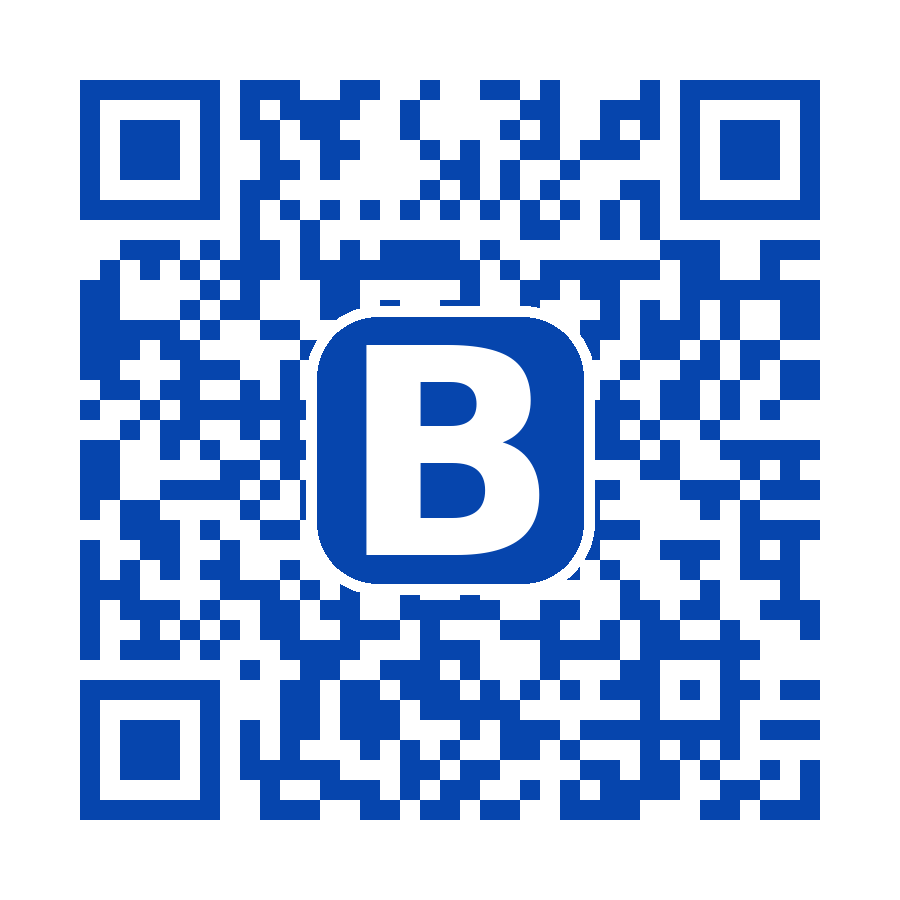
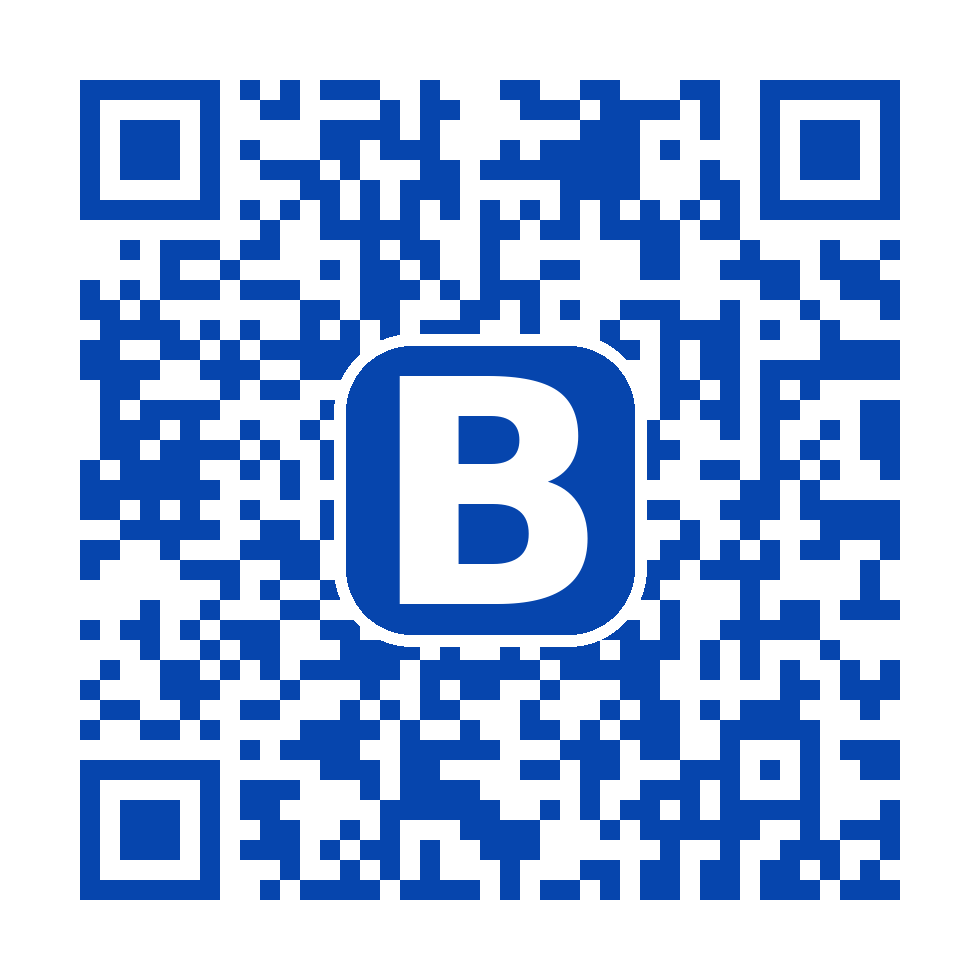
Update docs URLs to rafieakila-cloud/BunglonWIKI; Pages live

diff --git a/DEPLOY.md b/DEPLOY.md
@@ -2,7 +2,7 @@
 
 Ada 3 langkah yang **kamu sendiri** harus lakukan di GitHub — saya tidak punya akses ke akun kamu.
 
-## 1. Buat repo `BunglonWIKI` di afif72an
+## 1. Buat repo `BunglonWIKI` di rafieakila-cloud
 
 1. Buka <https://github.com/new>
 2. **Repository name:** `BunglonWIKI` (harus persis sama — ini menentukan URL)
@@ -16,29 +16,29 @@ Buka PowerShell di `C:\BacapiWiki\` lalu jalankan:
 
 ```sh
 git remote remove origin 2>$null
-git remote add origin https://github.com/afif72an/BunglonWIKI.git
+git remote add origin https://github.com/rafieakila-cloud/BunglonWIKI.git
 git push -u origin main
 ```
 
 Kalau `git push` minta login,
-ch <github.com/afif72an](https://github.com/afif72an) minta konfirmasi OAuth / Personal Access Token (PAT).
+ch <github.com/rafieakila-cloud](https://github.com/rafieakila-cloud) minta konfirmasi OAuth / Personal Access Token (PAT).
 
-Cek: buka <https://github.com/afif72an/BunglonWIKI> — harus ada semua file (index.html, style.css, data.js, …).
+Cek: buka <https://github.com/rafieakila-cloud/BunglonWIKI> — harus ada semua file (index.html, style.css, data.js, …).
 
 ## 3. Aktifkan GitHub Pages
 
-1. Buka <https://github.com/afif72an/BunglonWIKI/settings/pages>
+1. Buka <https://github.com/rafieakila-cloud/BunglonWIKI/settings/pages>
    (pastikan kamu **login** dulu)
 2. Pada **Build and deployment**:
    - **Source:** `Deploy from a branch`
    - **Branch:** `main` → `/ (root)` → **Save**
 3. Tunggu ~1 menit
-4. Buka <https://afif72an.github.io/BunglonWIKI/>
+4. Buka <https://rafieakila-cloud.github.io/BunglonWIKI/>
 5. Status harus **200 OK**, bukan 404
 
 ## Kalau 404 masih muncul
 
-1. Cek Pages benar-benar aktif: Settings → Pages → harus ada **Your site is live at https://afif72an.github.io/BunglonWIKI/**
+1. Cek Pages benar-benar aktif: Settings → Pages → harus ada **Your site is live at https://rafieakila-cloud.github.io/BunglonWIKI/**
 2. Cek file `index.html` ada di **root** repo
 3. Cek **Visibility: Public** (pages tidak jalan di repo private)
 4. Coba hard refresh (Ctrl+Shift+R)
@@ -49,7 +49,7 @@ Cek: buka <https://github.com/afif72an/BunglonWIKI> — harus ada semua file (in
 
 - `remote origin already exists` → kamu sudah menambahkan `origin` sebelum — itu OK, perintah `git remote remove origin 2>$null` menghapus dulu.
 - `Permission denied (publickey)` → butuh SSH key atau HTTPS PAT. Pakai HTTPS clone URL atau setup SSH key ([docs](https://docs.github.com/en/authentication/connecting-to-github-with-ssh)).
-- `repository not found` → repo belum dibuat atau username salah. Cek di github.com/afif72an — username harus benar.
+- `repository not found` → repo belum dibuat atau username salah. Cek di github.com/rafieakila-cloud — username harus benar.
 
 ## Local preview (tanpa deploy)
 
@@ -61,6 +61,6 @@ Buka <http://localhost:8000/> — langsung jalan, offline.
 
 ## Cek halaman
 
-- URL final: `https://afif72an.github.io/BunglonWIKI/`
+- URL final: `https://rafieakila-cloud.github.io/BunglonWIKI/`
 - QR code: `C:\BacapiWiki\qr.png` (bisa langsung di-scan pakai HP setelah Pages live)
 - Buka di Chrome HP → tap Install → aplikasi muncul di home screen

diff --git a/README.md b/README.md
@@ -14,16 +14,16 @@ Dokumentasi resmi proyek **Bacapi Linux** — sebagai PWA (Progressive Web App),
 ## Deploy ke GitHub Pages
 
 ```sh
-git remote add origin git@github.com:afif72an/BunglonWIKI.git
+git remote add origin git@github.com:rafieakila-cloud/BunglonWIKI.git
 git push -u origin main
 ```
 
-Lalu buka **https://github.com/afif72an/BunglonWIKI/settings/pages** → pilih **main / root** → Save.
-Situs akan live di **https://afif72an.github.io/BunglonWIKI/** dalam ~1 menit.
+Lalu buka **https://github.com/rafieakila-cloud/BunglonWIKI/settings/pages** → pilih **main / root** → Save.
+Situs akan live di **https://rafieakila-cloud.github.io/BunglonWIKI/** dalam ~1 menit.
 
 ### Scan QR untuk install di HP
 
-QR di `qr.png` menunjuk ke **https://afif72an.github.io/BunglonWIKI/**. Setelah situs aktif:
+QR di `qr.png` menunjuk ke **https://rafieakila-cloud.github.io/BunglonWIKI/**. Setelah situs aktif:
 
 1. Buka URL di Chrome di HP Android kamu
 2. Klik ⋮ → **Install app** atau **Add to Home screen**
